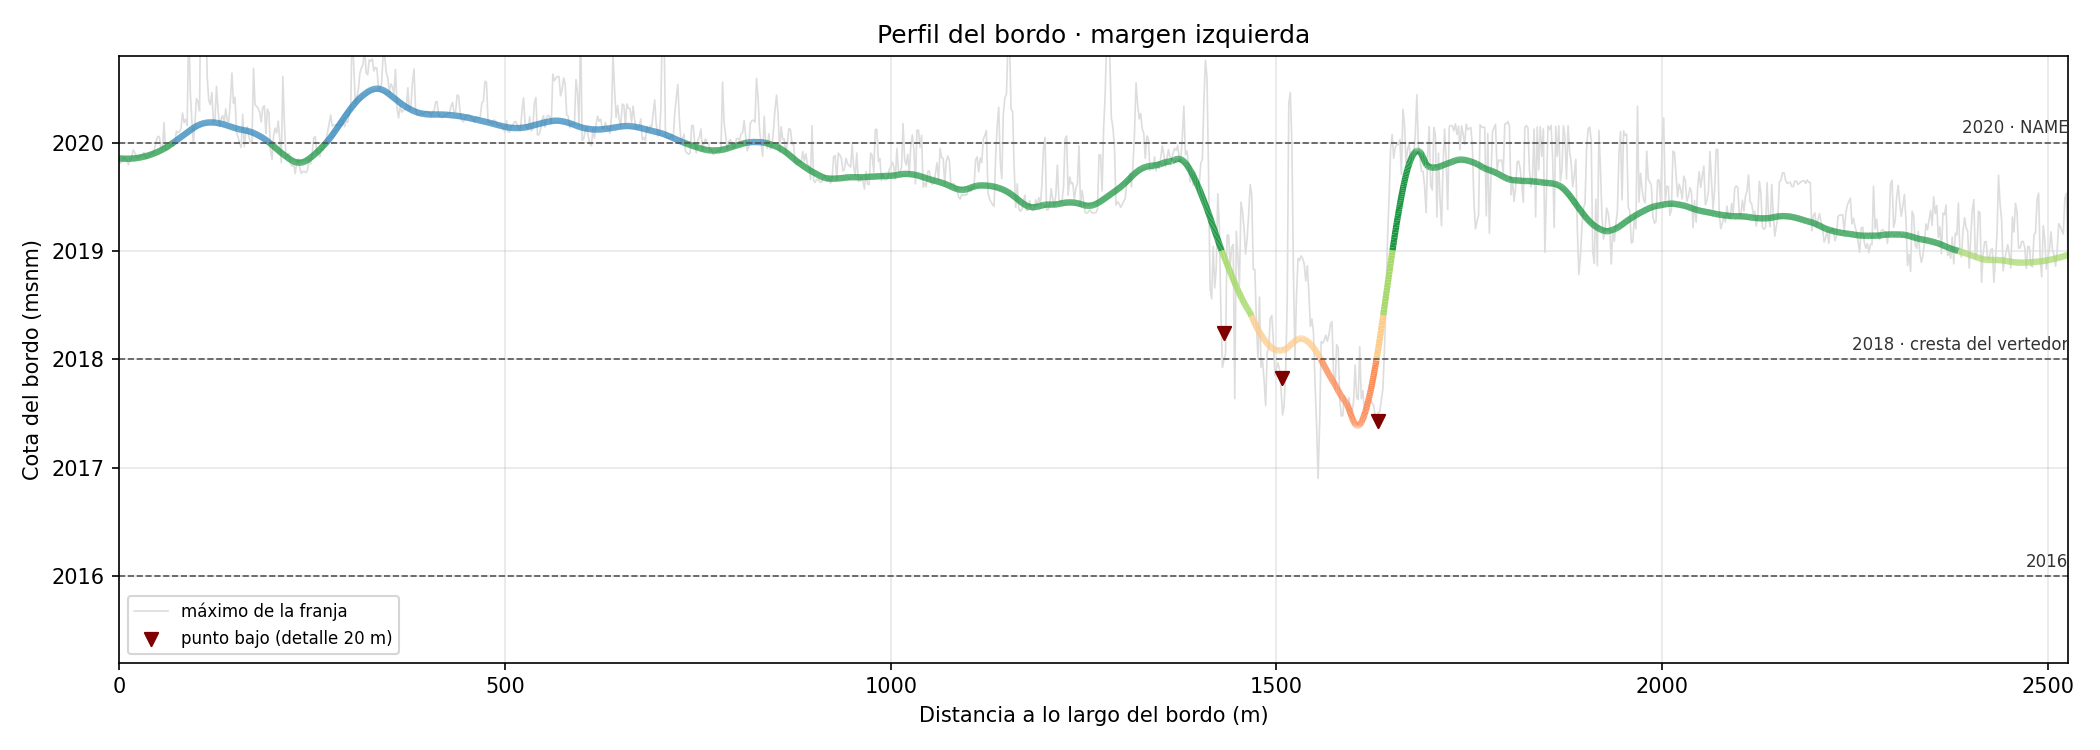
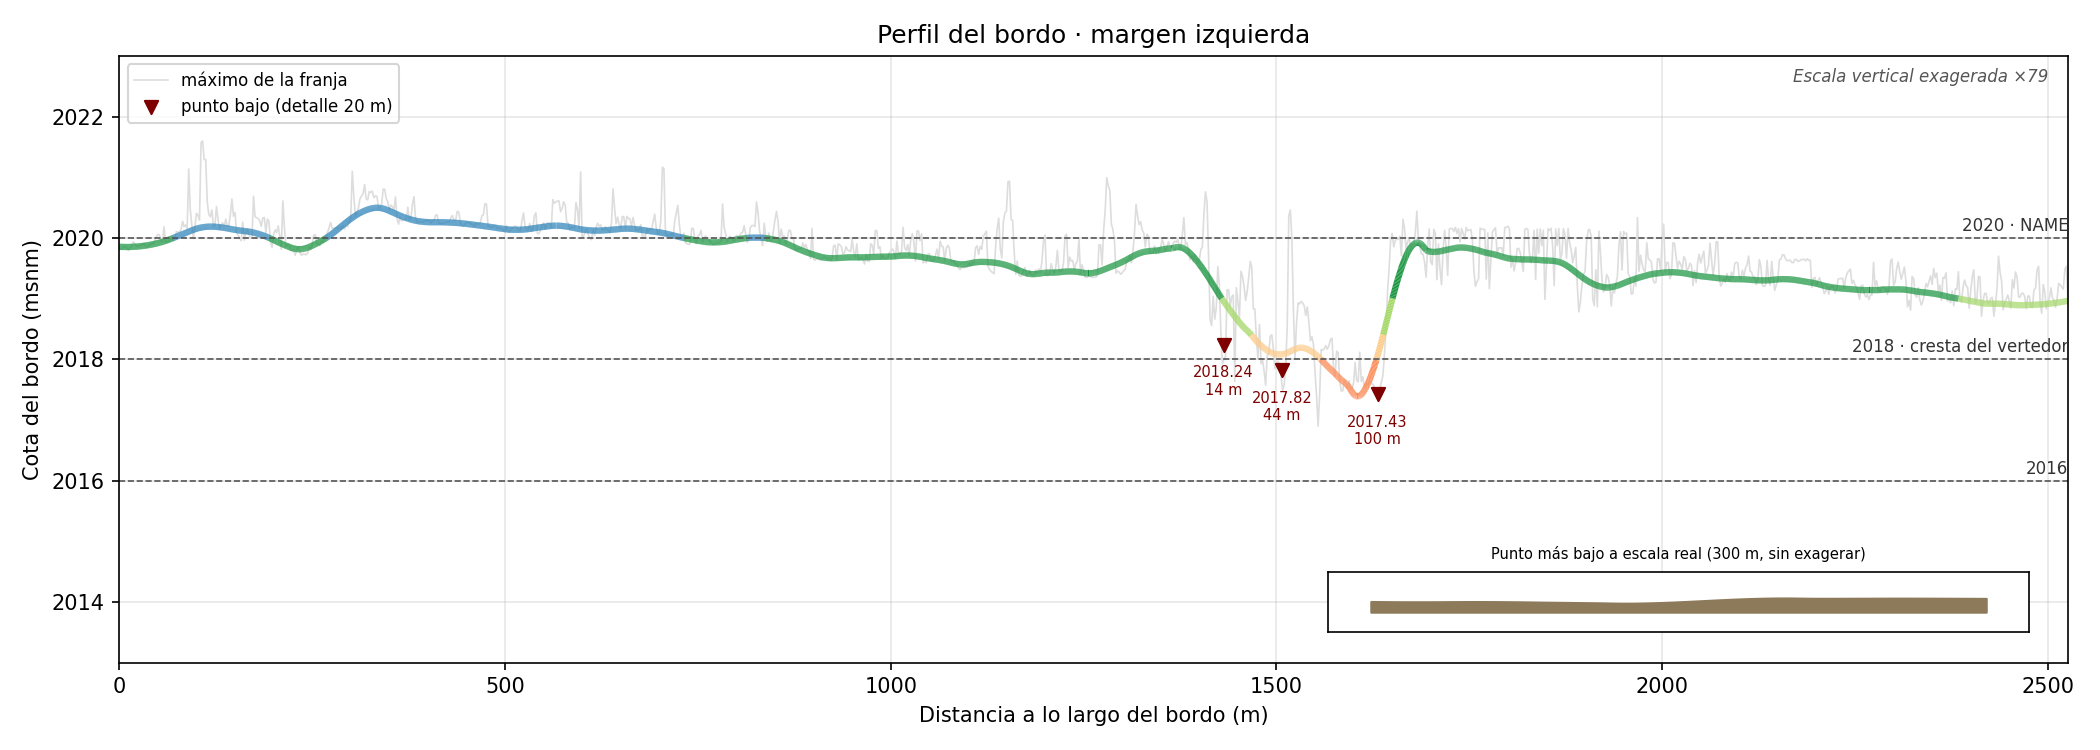
Perfil: eje fijo, exageración vertical y punto más bajo a escala real

diff --git a/bordo_analisis.py b/bordo_analisis.py
@@ -18,6 +18,7 @@ VENTANA_PERFIL = (121, 201)         # muestras: mediana 60 m + Savitzky-Golay 10
 VENTANA_DETALLE = (41, 61)          # muestras: mediana 20 m + Savitzky-Golay 30 m, puntos bajos angostos
 COTA_ALERTA = 2018.4                # msnm
 LONG_MIN_BAJO = 2.0                 # m
+Y_GRAFICA = (2013.0, 2023.0)        # msnm, eje vertical fijo
 PASO_GRAFICA = 2.0                  # m, espaciado del máximo de la franja en la gráfica
 Z_ESTRUCTURA = 2022.0               # puentes, edificios y árboles se ignoran
 INICIO_RIO = (463860, 2218660)      # aguas arriba; el perfil empieza en el extremo más cercano
@@ -92,18 +93,32 @@ def graficar(titulo, dist, z_crudo, z_filt, bajos, ruta):
     for cota, txt in [(2016, "2016"), (2018, "2018 · cresta del vertedor"), (2020, "2020 · NAME")]:
         ax.axhline(cota, ls="--", lw=0.8, color="#555")
         ax.text(dist[-1], cota + 0.05, txt, ha="right", va="bottom", fontsize=8, color="#333")
-    zs = [v for v in z_filt if v is not None]
-    ax.set_ylim(min(min(zs), 2015.5) - 0.3, max(max(zs), 2020.5) + 0.3)
+    ax.set_ylim(*Y_GRAFICA)
     ax.set_xlim(dist[0], dist[-1])
     ax.set_xlabel("Distancia a lo largo del bordo (m)")
     ax.set_ylabel("Cota del bordo (msnm)")
     ax.set_title(titulo)
     ax.grid(alpha=0.3)
     if bajos:
-        ax.scatter([d for d, _ in bajos], [v for _, v in bajos], marker="v", s=40, c="#7f0000", zorder=5,
+        ax.scatter([d for d, _, _ in bajos], [v for _, v, _ in bajos], marker="v", s=40, c="#7f0000", zorder=5,
                    label="punto bajo (detalle 20 m)")
-    ax.legend(loc="lower left", fontsize=8)
+        for d, v, largo in bajos:
+            ax.annotate(f"{v:.2f}\n{largo:.0f} m", (d, v), xytext=(0, -10), textcoords="offset points",
+                        ha="center", va="top", fontsize=7, color="#7f0000")
+        d0 = min(bajos, key=lambda b: b[1])[0]
+        dd, zz = zip(*[(d, v) for d, v in zip(dist, z_filt) if v is not None and abs(d - d0) <= 150])
+        ins = ax.inset_axes([0.62, 0.05, 0.36, 0.1])
+        ins.fill_between(dd, Y_GRAFICA[0], zz, color="#8c7a5b")
+        ins.set_xlim(d0 - 150, d0 + 150); ins.set_ylim(Y_GRAFICA[0], Y_GRAFICA[1])
+        ins.set_aspect("equal", adjustable="datalim")
+        ins.set_xticks([]); ins.set_yticks([])
+        ins.set_title("Punto más bajo a escala real (300 m, sin exagerar)", fontsize=7)
+    ax.legend(loc="upper left", fontsize=8)
     fig.tight_layout()
+    bb = ax.get_window_extent().transformed(fig.dpi_scale_trans.inverted())
+    ex = ((dist[-1] - dist[0]) / bb.width) / ((Y_GRAFICA[1] - Y_GRAFICA[0]) / bb.height)
+    ax.text(0.99, 0.98, f"Escala vertical exagerada ×{ex:.0f}", transform=ax.transAxes, ha="right", va="top",
+            fontsize=8, color="#555", style="italic")
     fig.savefig(ruta, dpi=150)
     plt.close(fig)
 
@@ -213,7 +228,7 @@ def main(mdt, niveles, gpkg, capa, out, satelite=None):
         for t in tramos_bajos(dist, zd, COTA_ALERTA, LONG_MIN_BAJO):
             i, v = t["i_min"], t["z_min"]
             fr = pct(niv, v)
-            marcas.append((dist[i], v))
+            marcas.append((dist[i], v, t["largo"]))
             bajos.append({"margen": lado, "dist_m": round(dist[i], 1), "z_min": round(v, 2), "largo_m": round(t["largo"], 1),
                           "frec_pct": round(fr, 1), "dias_anio": round(fr * 3.65), "meses_50pct": meses(v),
                           "sobre_cresta": "sí" if oc[i] else "no", "obstaculo": ob[i],
